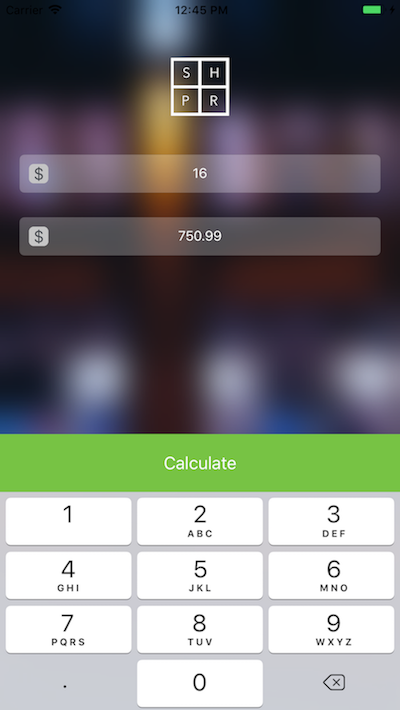
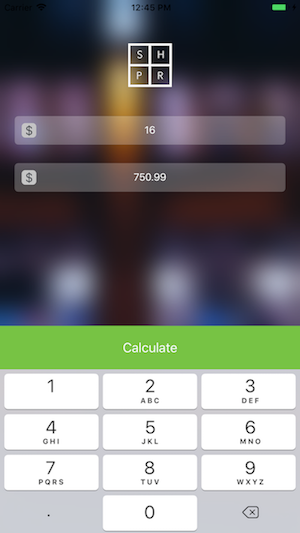
slight mods to readme and screenshots

Changed region(s): [[0.42, 0.06, 0.57, 0.1501], [0.42, 0.6304, 0.57, 0.6604]]

diff --git a/README.md b/README.md
@@ -12,7 +12,7 @@ See "window-shopperTests/*" to validate proper calculation execution.
 
 Below are example screenshots of the window shopper app flow.
 
-![MainVC-default](https://github.com/CodyJLeeApps/window-shopper/blob/master/app_screenshots/MainVC-decimal-input.png)
+![MainVC-default](https://github.com/CodyJLeeApps/window-shopper/blob/master/app_screenshots/MainVC-default.png)
 ![MainVC-decimal-input](https://github.com/CodyJLeeApps/window-shopper/blob/master/app_screenshots/MainVC-decimal-input.png)
 
 ![MainVC-example-input](https://github.com/CodyJLeeApps/window-shopper/blob/master/app_screenshots/MainVC-example-input.png)
